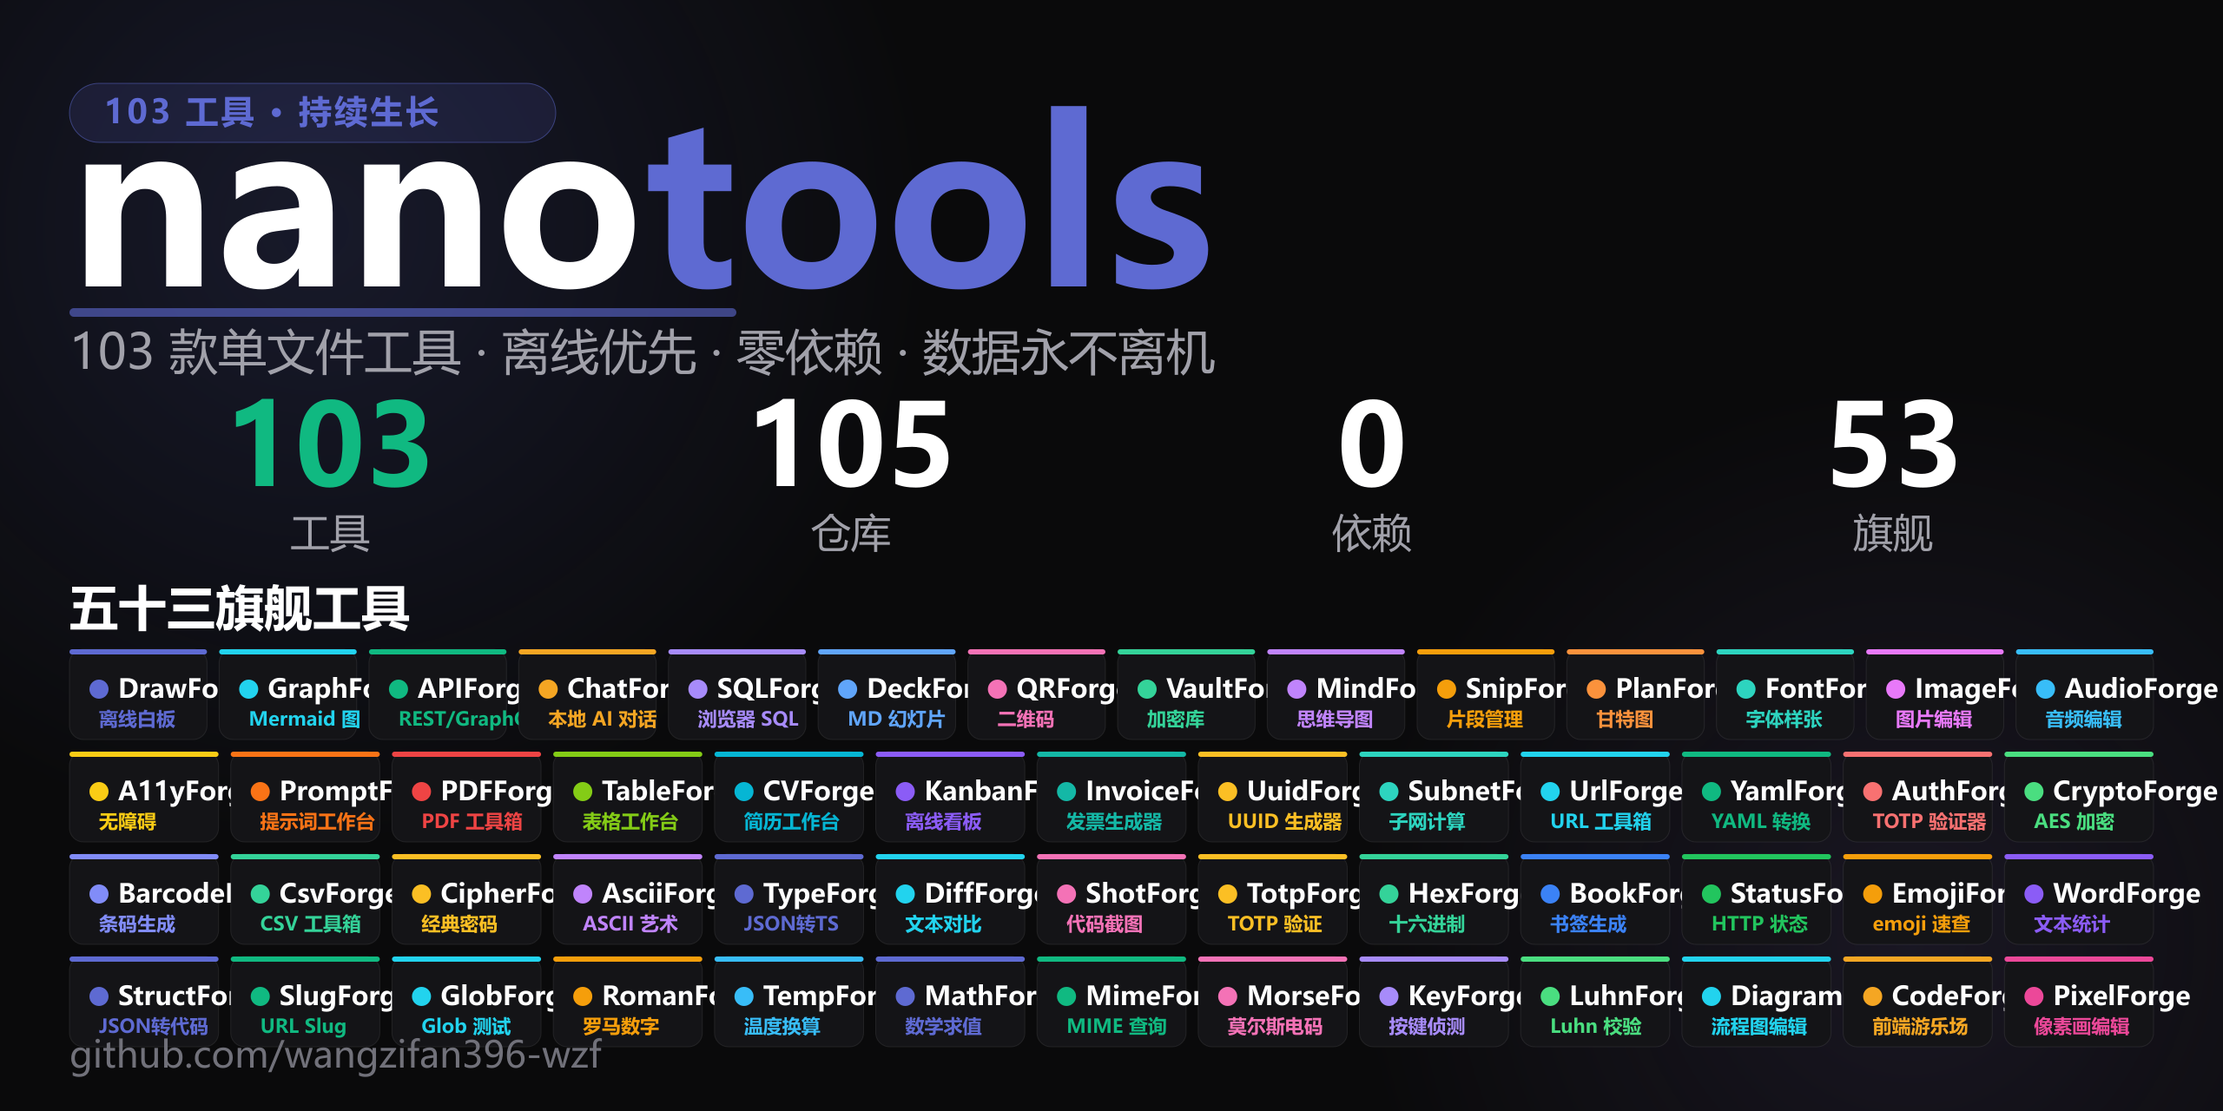
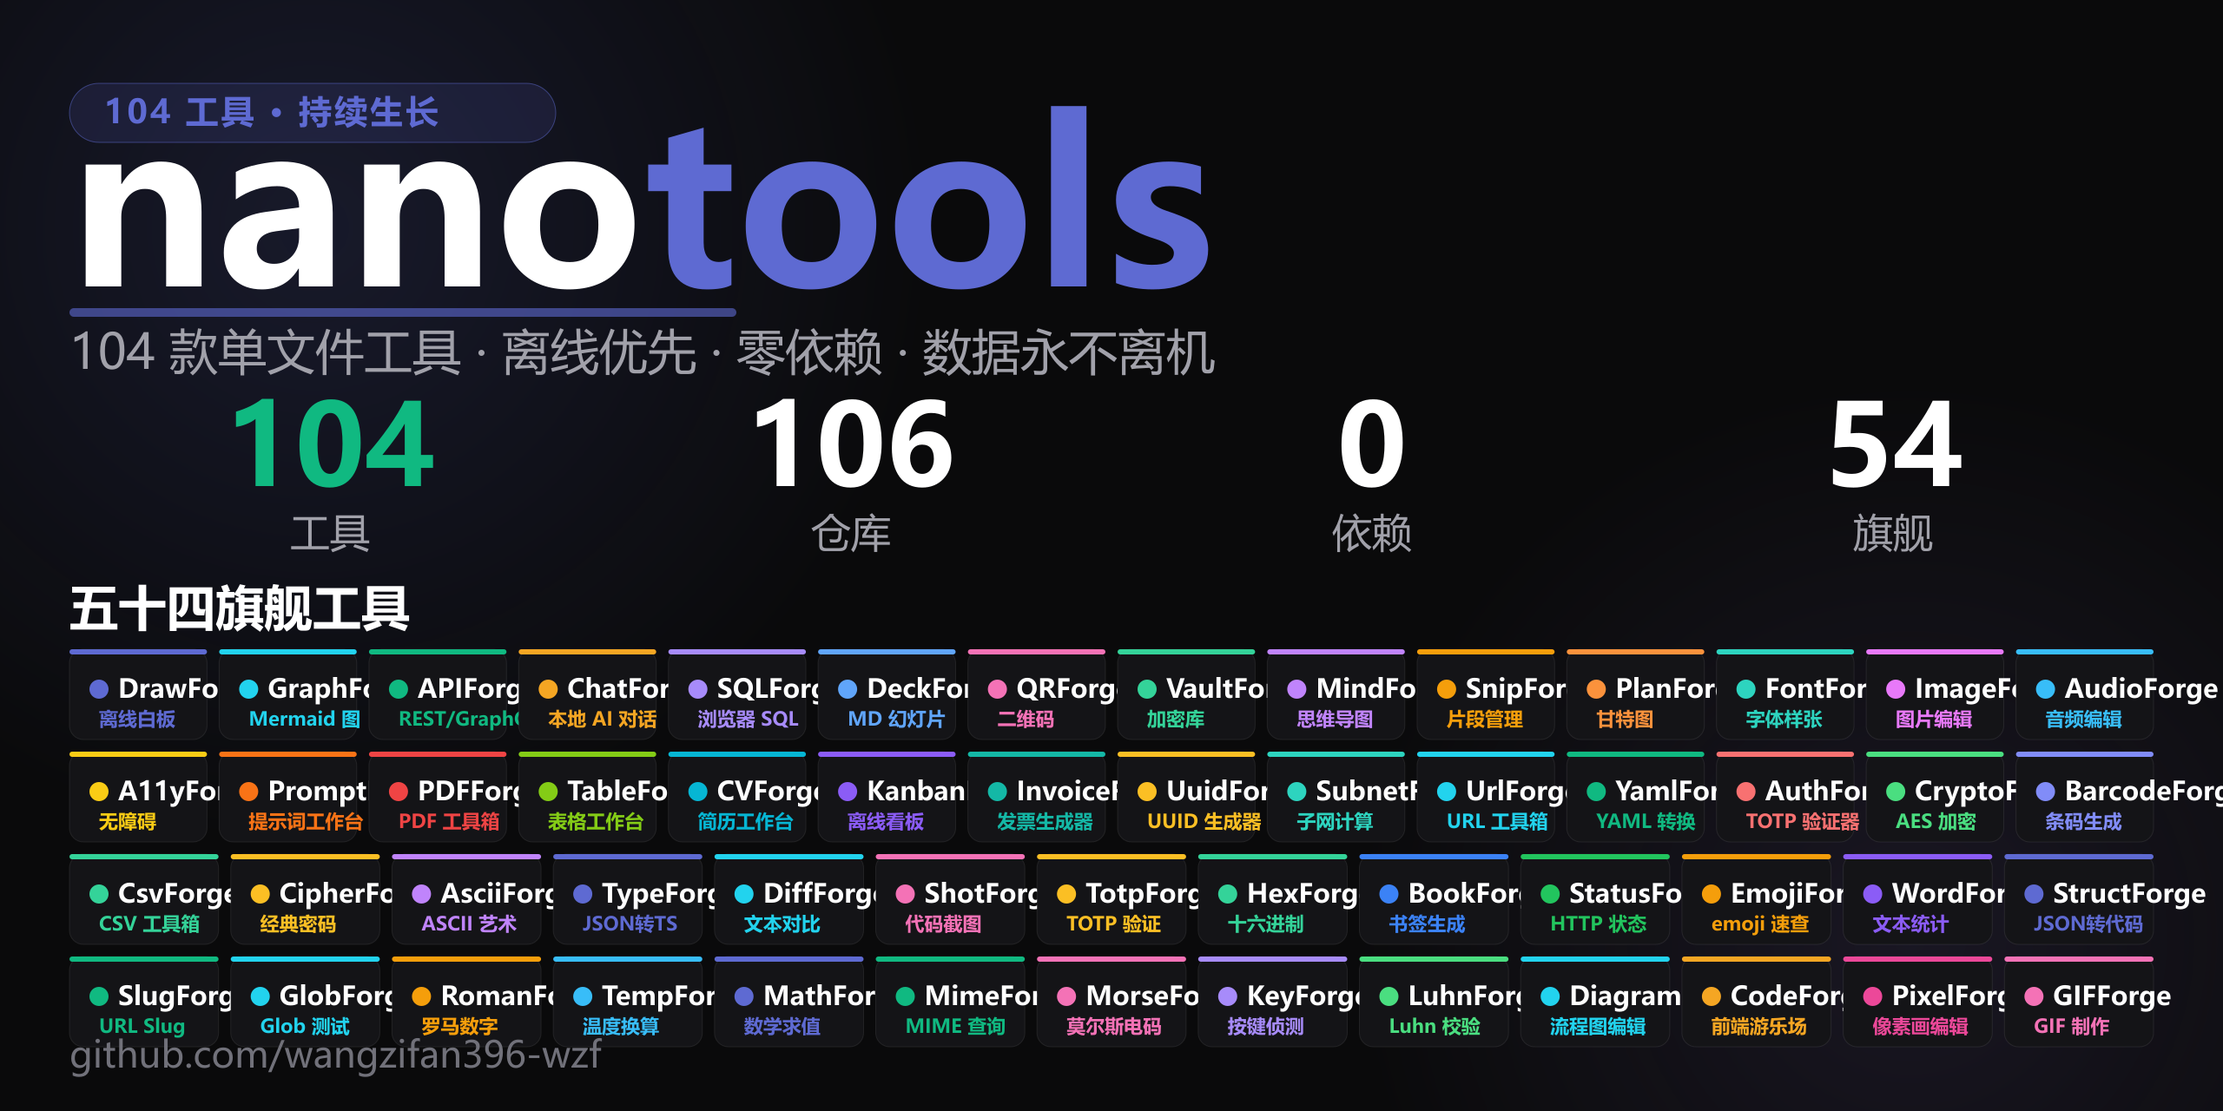
Add GIFForge (104 tools / 106 repos / 54 flagships)

diff --git a/index.html b/index.html
@@ -5,9 +5,9 @@
 <meta charset="UTF-8">
 <meta name="viewport" content="width=device-width, initial-scale=1.0">
 <title data-i18n="meta_title">nano-tools · 单文件零依赖工具集</title>
-<meta name="description" data-i18n="meta_desc" content="一个标签页，收纳你全部的开发者工具。103 个单文件、零依赖、本地优先的开源工具，下载即用，数据永不离机。">
+<meta name="description" data-i18n="meta_desc" content="一个标签页，收纳你全部的开发者工具。104 个单文件、零依赖、本地优先的开源工具，下载即用，数据永不离机。">
 <meta property="og:title" data-i18n="og_title" content="nano-tools · 单文件零依赖工具集">
-<meta property="og:description" data-i18n="og_desc" content="103 个单文件、零依赖、本地优先的开发者工具，下载即用，数据永不离机。">
+<meta property="og:description" data-i18n="og_desc" content="104 个单文件、零依赖、本地优先的开发者工具，下载即用，数据永不离机。">
 <meta property="og:image" content="social-preview.png">
 <meta property="og:image:width" content="1280">
 <meta property="og:image:height" content="640">
@@ -278,13 +278,13 @@
     <div class="hero-left">
       <span class="eyebrow"><span class="dot"></span><span data-i18n="hero_eyebrow">开源 · 零依赖 · 单文件</span></span>
       <h1 class="title" data-i18n-html="hero_title">一个标签页，<br>收纳你<span class="hl">全部的开发者工具</span></h1>
-      <p class="subtitle" data-i18n="hero_subtitle">103 个单文件、离线优先的开源工具，覆盖编码、转换、可视化与 AI。下载即用，数据永远留在你的浏览器里。</p>
+      <p class="subtitle" data-i18n="hero_subtitle">104 个单文件、离线优先的开源工具，覆盖编码、转换、可视化与 AI。下载即用，数据永远留在你的浏览器里。</p>
       <div class="hero-cta">
         <a class="btn primary" href="#tools" data-i18n="hero_browse">浏览工具 ↓</a>
         <a class="btn" href="https://github.com/wangzifan396-wzf" target="_blank" rel="noopener" data-i18n="hero_github">在 GitHub 查看</a>
       </div>
       <div class="hero-meta">
-        <span><b>105</b> <span data-i18n="meta_repos">开源仓库</span></span>
+        <span><b>106</b> <span data-i18n="meta_repos">开源仓库</span></span>
         <span><b>0</b> <span data-i18n="meta_deps">外部依赖</span></span>
         <span><b>100%</b> <span data-i18n="meta_local">本地运行</span></span>
       </div>
@@ -327,7 +327,7 @@
   <div class="wrap">
     <div class="sec-head reveal">
       <span class="label" data-i18n="tools_label">工具矩阵</span>
-      <h2 class="sec-title" data-i18n="tools_title">103 款精心打磨的开发者工具</h2>
+      <h2 class="sec-title" data-i18n="tools_title">104 款精心打磨的开发者工具</h2>
       <p class="sec-desc" data-i18n="tools_desc">搜索或按分类筛选，点击「在线试用」立即体验，或前往源码仓库查看实现。</p>
     </div>
     <div class="controls reveal">
@@ -385,7 +385,7 @@
 <div class="wrap">
   <div class="cta-band reveal" style="border-color:var(--acc);">
     <span class="pill ok" style="align-self:center;background:rgba(94,106,210,.16);color:#aab2f0;" data-i18n="wb_badge">★ 聚合工作台</span>
-    <h2 data-i18n="wb_title">一个标签页，收纳全部 103 款工具</h2>
+    <h2 data-i18n="wb_title">一个标签页，收纳全部 104 款工具</h2>
     <p data-i18n="wb_desc">nano-workbench：点选即在内嵌窗口运行、标签间即时切换，无需反复打开新页面。数据永不离机。</p>
     <div class="hero-cta">
       <a class="btn primary" href="https://wangzifan396-wzf.github.io/nano-workbench/" target="_blank" rel="noopener" data-i18n="wb_open">打开工作台 ↗</a>
@@ -397,7 +397,7 @@
 <div class="wrap">
   <div class="cta-band reveal">
     <h2 data-i18n="cta_title">把你下一个小工具，交给 nano-tools</h2>
-    <p data-i18n="cta_desc">105 个仓库、103 款工具，全部开源、零依赖、本地优先。</p>
+    <p data-i18n="cta_desc">106 个仓库、104 款工具，全部开源、零依赖、本地优先。</p>
     <div class="hero-cta">
       <a class="btn primary" href="#tools" data-i18n="cta_browse">开始浏览</a>
       <a class="btn" href="https://github.com/wangzifan396-wzf" target="_blank" rel="noopener">★ Star on GitHub</a>
@@ -425,16 +425,16 @@
   // 双语字典（中 / 英）。data-i18n 文本用 textContent；data-i18n-html 保留 <br>/<span> 结构；meta 改 content 属性。
   var I18N = {
     "meta_title":{zh:"nano-tools · 单文件零依赖工具集",en:"nano-tools · single-file, zero-dep tools"},
-    "meta_desc":{zh:"一个标签页，收纳你全部的开发者工具。103 个单文件、零依赖、本地优先的开源工具，下载即用，数据永不离机。",en:"One tab for all your dev tools. 103 single-file, zero-dep, local-first open-source tools. Download and use; data never leaves the browser."},
+    "meta_desc":{zh:"一个标签页，收纳你全部的开发者工具。104 个单文件、零依赖、本地优先的开源工具，下载即用，数据永不离机。",en:"One tab for all your dev tools. 104 single-file, zero-dep, local-first open-source tools. Download and use; data never leaves the browser."},
     "og_title":{zh:"nano-tools · 单文件零依赖工具集",en:"nano-tools · single-file, zero-dep tools"},
-    "og_desc":{zh:"103 个单文件、零依赖、本地优先的开发者工具，下载即用，数据永不离机。",en:"103 single-file, zero-dep, local-first dev tools. Download and use; data never leaves the browser."},
+    "og_desc":{zh:"104 个单文件、零依赖、本地优先的开发者工具，下载即用，数据永不离机。",en:"104 single-file, zero-dep, local-first dev tools. Download and use; data never leaves the browser."},
     "nav_features":{zh:"特性",en:"Features"},
     "nav_tools":{zh:"工具",en:"Tools"},
     "nav_stats":{zh:"数据",en:"Stats"},
     "nav_faq":{zh:"问答",en:"FAQ"},
     "hero_eyebrow":{zh:"开源 · 零依赖 · 单文件",en:"Open-source · Zero-dep · Single-file"},
     "hero_title":{zh:'一个标签页，<br>收纳你<span class="hl">全部的开发者工具</span>',en:'One tab, <br>for <span class="hl">all your dev tools</span>'},
-    "hero_subtitle":{zh:"103 个单文件、离线优先的开源工具，覆盖编码、转换、可视化与 AI。下载即用，数据永远留在你的浏览器里。",en:"103 single-file, offline-first open-source tools spanning encoding, conversion, visualization & AI. Download and use instantly; your data never leaves the browser."},
+    "hero_subtitle":{zh:"104 个单文件、离线优先的开源工具，覆盖编码、转换、可视化与 AI。下载即用，数据永远留在你的浏览器里。",en:"104 single-file, offline-first open-source tools spanning encoding, conversion, visualization & AI. Download and use instantly; your data never leaves the browser."},
     "hero_browse":{zh:"浏览工具 ↓",en:"Browse tools ↓"},
     "hero_github":{zh:"在 GitHub 查看",en:"View on GitHub"},
     "meta_repos":{zh:"开源仓库",en:"Open-source repos"},
@@ -450,16 +450,16 @@
     "step3_t":{zh:"单文件可携",en:"Portable single-file"},
     "step3_d":{zh:"每个工具只有一个 HTML 文件，零依赖、可随便复制分享，U 盘里也能跑。",en:"Each tool is one HTML file — zero dependencies, copy & share freely, runs from a USB stick."},
     "tools_label":{zh:"工具矩阵",en:"Tool matrix"},
-    "tools_title":{zh:"103 款精心打磨的开发者工具",en:"103 Hand-crafted Dev Tools"},
+    "tools_title":{zh:"104 款精心打磨的开发者工具",en:"104 Hand-crafted Dev Tools"},
     "tools_desc":{zh:"搜索或按分类筛选，点击「在线试用」立即体验，或前往源码仓库查看实现。",en:"Search or filter by category, hit “Live Demo” to try instantly, or visit the source repo."},
     "search_ph":{zh:"搜索工具… 试试 regex / json / 颜色 / 压缩 / 图表",en:"Search tools… try regex / json / color / compress / chart"},
     "btn_demo":{zh:"在线试用",en:"Live Demo"},
     "btn_src":{zh:"源码",en:"Source"},
     "no_result":{zh:"没有匹配的工具，换个关键词试试 🔍",en:"No matching tools — try another keyword 🔍"},
     "cta_title":{zh:"把你下一个小工具，交给 nano-tools",en:"Your next tiny tool, from nano-tools"},
-    "cta_desc":{zh:"105 个仓库、103 款工具，全部开源、零依赖、本地优先。",en:"105 repos, 103 tools. All open-source, zero-dep, local-first."},
+    "cta_desc":{zh:"106 个仓库、104 款工具，全部开源、零依赖、本地优先。",en:"106 repos, 104 tools. All open-source, zero-dep, local-first."},
     "wb_badge":{zh:"★ 聚合工作台",en:"★ Unified Workbench"},
-    "wb_title":{zh:"一个标签页，收纳全部 103 款工具",en:"All 103 tools in one tab"},
+    "wb_title":{zh:"一个标签页，收纳全部 104 款工具",en:"All 104 tools in one tab"},
     "wb_desc":{zh:"nano-workbench：点选即在内嵌窗口运行、标签间即时切换，无需反复打开新页面。数据永不离机。",en:"nano-workbench: pick a tool and run it in an embedded pane, switch tabs instantly — no more reopening pages. Data never leaves your machine."},
     "wb_open":{zh:"打开工作台 ↗",en:"Open Workbench ↗"},
     "wb_src":{zh:"查看源码",en:"View Source"},
@@ -796,7 +796,10 @@
      tags:["playground","codepen","sandbox","live-preview"]},
     {id:"PixelForge", name:"PixelForge", icon:"pixel", cat:"图像工具", badge:"旗舰",
      desc:"离线像素画 / 精灵图编辑器：画笔、橡皮、填充、取色、直线、矩形、X 轴镜像、网格缩放、24 色调色板、动画帧+洋葱皮+FPS 预览，导出 PNG@Nx 与雪碧图，localStorage 多项目管理。",
-     tags:["pixel-art","sprite","drawing","animation"]}
+     tags:["pixel-art","sprite","drawing","animation"]},
+    {id:"GIFForge", name:"GIFForge", icon:"gif", cat:"图像工具", badge:"旗舰",
+     desc:"离线 GIF 动画制作器：拖入图片或雪碧图切片成帧，拖拽排帧、逐帧延时、循环与抖动控制，纯 JS GIF89a 编码器（LZW+中位切分量化）本地导出。",
+     tags:["gif","animation","encoder","sprite-sheet"]}
   ];
 
   // 英文文案（按 id 索引；门户双语切换用）
@@ -904,7 +907,8 @@
     LuhnForge:{desc:"Offline Luhn validator — mod-10 card number check, brand detection (Visa/UnionPay...), check-digit generator.", cat:"Dev Assist"},
     DiagramForge:{desc:"Offline diagram/flowchart editor: node+edge structured drawing, 4 shapes, drag to connect, undo/redo, auto layout, SVG/JSON export.", cat:"Viz"},
     CodeForge:{desc:"Offline front-end playground: HTML/CSS/JS editors + sandboxed live preview + console capture; export standalone HTML.", cat:"Dev Assist"},
-    PixelForge:{desc:"Offline pixel-art & sprite editor: pen, eraser, fill, eyedropper, line, rect, X-axis mirror, grid & zoom, 24-color palette, animation frames with onion skin & FPS preview; export PNG@Nx and sprite sheets; localStorage multi-project.", cat:"Image"}
+    PixelForge:{desc:"Offline pixel-art & sprite editor: pen, eraser, fill, eyedropper, line, rect, X-axis mirror, grid & zoom, 24-color palette, animation frames with onion skin & FPS preview; export PNG@Nx and sprite sheets; localStorage multi-project.", cat:"Image"},
+    GIFForge:{desc:"Offline GIF maker: drop images or slice a sprite sheet into frames, drag-reorder, per-frame delay, loop & dither control; pure-JS GIF89a encoder (LZW + median-cut quantization) exports locally.", cat:"Image"}
   };
   // 中文分类 -> 英文分类 映射
   var CAT_EN = {"全部":"All"};
@@ -1013,7 +1017,8 @@
     morse:'<circle cx="5" cy="12" r="1.5"/><circle cx="10" cy="12" r="1.5"/><path d="M14 12h6"/><path d="M4 18h6M14 18h2"/><circle cx="19" cy="18" r="1.5"/><path d="M4 6h3M11 6h9"/>',
     keyboard:'<rect x="3" y="7" width="18" height="11" rx="2"/><path d="M7 11h.01M11 11h.01M15 11h.01M7 14h.01M11 14h.01M15 14h.01M8 17h8" stroke-linecap="round"/>',
     card:'<rect x="3" y="6" width="18" height="13" rx="2"/><path d="M3 10h18M7 15h4"/>',
-    pixel:'<rect x="4" y="4" width="7" height="7" rx="1"/><rect x="13" y="4" width="7" height="7" rx="1"/><rect x="4" y="13" width="7" height="7" rx="1"/><rect x="13" y="13" width="7" height="7" rx="1"/>'
+    pixel:'<rect x="4" y="4" width="7" height="7" rx="1"/><rect x="13" y="4" width="7" height="7" rx="1"/><rect x="4" y="13" width="7" height="7" rx="1"/><rect x="13" y="13" width="7" height="7" rx="1"/>',
+    gif:'<rect x="3" y="5" width="18" height="14" rx="3"/><path d="M9.5 10.5H7.8a1.3 1.3 0 0 0-1.3 1.3v.4a1.3 1.3 0 0 0 1.3 1.3h1.7v-1.6H8.6M12 10.5v3M14.5 13.5v-3h3M14.5 12h2"/>'
   };
   function iconSvg(k){ return '<svg viewBox="0 0 24 24" fill="none" stroke="currentColor" stroke-width="1.8" stroke-linecap="round" stroke-linejoin="round">'+(ICONS[k]||"")+'</svg>'; }
 
@@ -1023,7 +1028,7 @@
   var $ = function(s,el){return (el||document).querySelector(s);};
   var state = {q:"", cat:"全部", flag:false, fav:false};
   var LANG = (function(){ try{return localStorage.getItem("nano-lang")||"zh";}catch(e){return "zh";} })();
-  var FLAG_IDS = {"DrawForge":1,"GraphForge":1,"APIForge":1,"ChatForge":1,"SQLForge":1,"DeckForge":1,"QRForge":1,"VaultForge":1,"MindForge":1,"SnipForge":1,"PlanForge":1,"FontForge":1,"ImageForge":1,"AudioForge":1,"A11yForge":1,"PromptForge":1,"PDFForge":1,"TableForge":1,"CVForge":1,"KanbanForge":1,"InvoiceForge":1,"UuidForge":1,"SubnetForge":1,"UrlForge":1,"YamlForge":1,"AuthForge":1,"CryptoForge":1,"BarcodeForge":1,"CsvForge":1,"CipherForge":1,"AsciiForge":1,"TypeForge":1,"DiffForge":1,"ShotForge":1,"TotpForge":1,"HexForge":1,"BookForge":1,"StatusForge":1,"EmojiForge":1,"WordForge":1,"StructForge":1,"SlugForge":1,"GlobForge":1,"RomanForge":1,"TempForge":1,"MathForge":1,"MimeForge":1,"MorseForge":1,"KeyForge":1,"LuhnForge":1,"DiagramForge":1,"CodeForge":1,"PixelForge":1};
+  var FLAG_IDS = {"DrawForge":1,"GraphForge":1,"APIForge":1,"ChatForge":1,"SQLForge":1,"DeckForge":1,"QRForge":1,"VaultForge":1,"MindForge":1,"SnipForge":1,"PlanForge":1,"FontForge":1,"ImageForge":1,"AudioForge":1,"A11yForge":1,"PromptForge":1,"PDFForge":1,"TableForge":1,"CVForge":1,"KanbanForge":1,"InvoiceForge":1,"UuidForge":1,"SubnetForge":1,"UrlForge":1,"YamlForge":1,"AuthForge":1,"CryptoForge":1,"BarcodeForge":1,"CsvForge":1,"CipherForge":1,"AsciiForge":1,"TypeForge":1,"DiffForge":1,"ShotForge":1,"TotpForge":1,"HexForge":1,"BookForge":1,"StatusForge":1,"EmojiForge":1,"WordForge":1,"StructForge":1,"SlugForge":1,"GlobForge":1,"RomanForge":1,"TempForge":1,"MathForge":1,"MimeForge":1,"MorseForge":1,"KeyForge":1,"LuhnForge":1,"DiagramForge":1,"CodeForge":1,"PixelForge":1,"GIFForge":1};
   var FAV_KEY = "nano-favs";
   function getFavs(){ try{return JSON.parse(localStorage.getItem(FAV_KEY)||"[]");}catch(e){return [];} }
   function setFav(id,on){ var s=getFavs(); var i=s.indexOf(id); if(on&&i<0)s.push(id); if(!on&&i>=0)s.splice(i,1); try{localStorage.setItem(FAV_KEY,JSON.stringify(s));}catch(e){} }

diff --git a/README.md b/README.md
@@ -3,7 +3,7 @@
   <img src="https://img.shields.io/github/forks/wangzifan396-wzf/WB?style=flat-square" alt="Forks">
   <img src="https://img.shields.io/github/issues/wangzifan396-wzf/WB?style=flat-square" alt="Issues">
   <img src="https://img.shields.io/github/last-commit/wangzifan396-wzf/WB?style=flat-square" alt="Last Commit">
-  <img src="https://img.shields.io/badge/tools-103-5E6AD2?style=flat-square" alt="103 Tools">
+  <img src="https://img.shields.io/badge/tools-104-5E6AD2?style=flat-square" alt="104 Tools">
   <img src="https://img.shields.io/badge/dependencies-zero-2EA043?style=flat-square" alt="Zero Dep">
   <img src="https://img.shields.io/github/license/wangzifan396-wzf/WB?style=flat-square" alt="License">
 </p>
@@ -16,7 +16,7 @@
 
 # nano-tools · 单文件工具集门户
 
-**103 款单文件、零依赖、本地优先的开发者工具**的总入口（105 个仓库 · 53 款旗舰 ⭐）。每个工具都是一个 `index.html`——无需安装、无需构建、无需联网，下载即用，数据永远留在你的浏览器里。
+**104 款单文件、零依赖、本地优先的开发者工具**的总入口（106 个仓库 · 54 款旗舰 ⭐）。每个工具都是一个 `index.html`——无需安装、无需构建、无需联网，下载即用，数据永远留在你的浏览器里。
 
 ## 为什么是 nano-tools
 
@@ -25,7 +25,7 @@
 - **本地优先**：所有计算在你的浏览器内完成，数据永不上传。
 - **独立仓库**：每个工具一个仓库，可单独 fork / star / 魔改，互不牵连。
 
-## 🧰 工具矩阵（103 款 · ⭐ = 旗舰）
+## 🧰 工具矩阵（104 款 · ⭐ = 旗舰）
 
 | 工具 | 分类 | 简介 |
 |------|------|------|
@@ -132,6 +132,7 @@
 | [DiagramForge](https://wangzifan396-wzf.github.io/DiagramForge/) ⭐ | 可视化 | 离线流程图编辑器：节点+连线结构化绘图，4 种形状、拖拽连线、撤销重做、自动布局，导出 SVG/JSON。 |
 | [CodeForge](https://wangzifan396-wzf.github.io/CodeForge/) ⭐ | 开发辅助 | 离线前端游乐场：HTML/CSS/JS 三栏编辑 + 沙箱 iframe 实时预览 + 控制台捕获，可导出独立 HTML。 |
 | [PixelForge](https://wangzifan396-wzf.github.io/PixelForge/) ⭐ | 图像工具 | 离线像素画 / 精灵图编辑器：画笔、橡皮、填充、取色、直线、矩形、X 轴镜像、网格缩放、24 色调色板、动画帧+洋葱皮+FPS 预览，导出 PNG@Nx 与雪碧图，localStorage 多项目管理。 |
+| [GIFForge](https://wangzifan396-wzf.github.io/GIFForge/) ⭐ | 图像工具 | 离线 GIF 动画制作器：拖入图片或雪碧图切片成帧，拖拽排帧、逐帧延时、循环与抖动控制，纯 JS GIF89a 编码器（LZW+中位切分量化）本地导出。 |
 | [nano-workbench](https://wangzifan396-wzf.github.io/nano-workbench/) | 聚合器 | 全矩阵聚合工作台：一个页面装下全部工具，模糊搜索、iframe 内嵌打开。 |
 
 ## 快速使用
@@ -143,7 +144,7 @@
 ## 质量保障
 
 - 每个工具都带 `_test.js`（纯函数断言）+ `smoke.js`（jsdom 冒烟），CI 全绿。
-- 全矩阵回归：`run_matrix_tests.py` 一键跑 103 工具测试。
+- 全矩阵回归：`run_matrix_tests.py` 一键跑 104 工具测试。
 
 ## License
 
